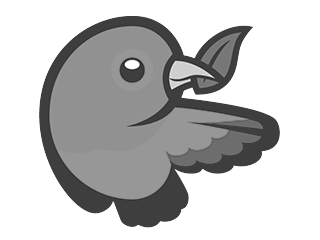
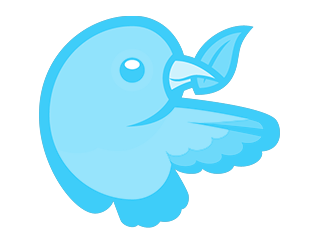
homepage changes

diff --git a/app/_layouts/default.html b/app/_layouts/default.html
@@ -12,6 +12,11 @@
     <div class="columns large-10 medium-10 small-10">
       <p>My name is <span>Clint Robinson</span>. I build websites. I am currently working as a front-end developer at <span>Lift Interactive</span> in <span>Edmonton, Alberta</span>. I am passionate about modern front-end technology and work flow.
       </p>
+      <ul>
+        <li><a href="https://twitter.com/clintrobinson"><i class="fa fa-twitter"></i> Twitter</a></li>
+        <li><a href="http://jekyllrb.com/"><i class="fa fa-linkedin"></i> LinkedIn</a></li>
+        <li><a href="mailto:me@clintrobinson.net"><i class="fa fa-envelope"></i> Email</a></li>
+      </ul>
     </div>
   </div>
 </section>
@@ -43,7 +48,7 @@
 
       <div class="cd-timeline-content">
         <h2>Lift Interactive</h2>
-        <p>Lorem ipsum dolor sit amet, consectetur adipisicing elit. Iusto, optio, dolorum provident rerum aut hic quasi placeat iure tempora laudantium ipsa ad debitis unde? Iste voluptatibus minus veritatis qui ut.</p>
+        <h3>Front-end Developer</h3>
         <a href="#0" class="cd-read-more">Read more</a>
         <span class="cd-date">March 2014 - Present</span>
       </div> <!-- cd-timeline-content -->
@@ -56,7 +61,7 @@
 
       <div class="cd-timeline-content">
         <h2>Vendasta Technologies</h2>
-        <p>Lorem ipsum dolor sit amet, consectetur adipisicing elit. Iusto, optio, dolorum provident rerum aut hic quasi placeat iure tempora laudantium ipsa ad debitis unde?</p>
+        <h3>Web Designer/Graphic Designer</h3>
         <a href="#0" class="cd-read-more">Read more</a>
         <span class="cd-date">September 2013 - March 2014</span>
       </div> <!-- cd-timeline-content -->
@@ -69,7 +74,7 @@
 
       <div class="cd-timeline-content">
         <h2>University of Saskatchewan</h2>
-        <p>Lorem ipsum dolor sit amet, consectetur adipisicing elit. Excepturi, obcaecati, quisquam id molestias eaque asperiores voluptatibus cupiditate error assumenda delectus odit similique earum voluptatem doloremque dolorem ipsam quae rerum quis. Odit, itaque, deserunt corporis vero ipsum nisi eius odio natus ullam provident pariatur temporibus quia eos repellat consequuntur perferendis enim amet quae quasi repudiandae sed quod veniam dolore possimus rem voluptatum eveniet eligendi quis fugiat aliquam sunt similique aut adipisci.</p>
+        <h3>Web Designer</h3>
         <a href="#0" class="cd-read-more">Read more</a>
         <span class="cd-date">February 2012 - September 2013</span>
       </div> <!-- cd-timeline-content -->
@@ -85,41 +90,42 @@
   <div class="row">
     <div class="columns large-12">
       <h1>Blog</h1>
+    </div>
+    <div class="columns large-7">
       {{ content }}
     </div>
-  </div>
-</section>
-
-<section class="built-with">
-  <div class="row">
-    <div class="columns medium-8 medium-centered large-8 large-centered">
-      <h3>This site was built With</h3>
-      <ul class="large-block-grid-4 medium-block-grid-2 small-block-grid-1">
-        <li><img src="/img/yeoman.png"></li>
-        <li><img src="/img/grunt.png"></li>
-        <li><img src="/img/bower.png"></li>
-        <li><img src="/img/jekyll.png"></li>
+    <div class="columns large-4">
+      <h2 class="">Recent Posts</h2>
+      <ul class="posts">
+        {% for post in site.posts limit:20 %}
+           <li>
+             <span>{{ post.date | date_to_string }}</span> &raquo;
+             <a href="{{ BASE_PATH }}{{ post.url }}">
+             {{ post.title }}</a>
+           </li>
+        {% endfor %}
       </ul>
     </div>
   </div>
 </section>
 
-
-
-<footer class="footer">
-  <div class="contact">
-    <p>
-      Clint Robinson<br />
-      <a href="mailto:me@clintrobinson.net">me@clintrobinson.net</a>
-    </p>
-  </div>
-  <div class="contact">
-    <p>
-      <a href="https://github.com/yourusername">github.com/yourusername</a><br />
-      <a href="https://twitter.com/clintrobinson">twitter.com/yourusername</a><br />
-    </p>
+<footer class="built-with">
+  <div class="row">
+    <div class="columns medium-8 medium-centered large-8 large-centered">
+      <h3>This site was built With</h3>
+      <ul class="large-block-grid-4 medium-block-grid-2 small-block-grid-1">
+        <li><a href="http://yeoman.io/"><img src="/img/yeoman.png"></a></li>
+        <li><a href="http://gruntjs.com/"><img src="/img/grunt.png"></a></li>
+        <li><a href="http://bower.io/"><img src="/img/bower.png"></a></li>
+        <li><a href="http://jekyllrb.com/"><img src="/img/jekyll.png"></a></li>
+      </ul>
+    </div>
   </div>
 </footer>
+
+
+
+
 
 
 {% include footer.html %}

diff --git a/app/_scss/modules/_timeline.scss b/app/_scss/modules/_timeline.scss
@@ -38,7 +38,7 @@ $color-5: #f0ca45; // yellow
     display: inline-block;
     font-weight: 800;
     line-height: 0.75;
-    margin: 0 0 2rem 0;
+    margin: 2rem 0 4rem;
     position: relative;
     text-transform: uppercase;
     &:after{
@@ -148,15 +148,15 @@ $color-5: #f0ca45; // yellow
   }
 
   &.lift-interactive {
-    background: #222;
+    //background: #222;
   }
 
   &.vendasta {
-    background: #43685a;
+    //background: #43685a;
   }
 
   &.usask {
-    background: #8fc73e;
+    //background: #8fc73e;
   }
   &.rawlco {
     background: $blue;
@@ -214,11 +214,19 @@ $color-5: #f0ca45; // yellow
   @include clearfix;
 
   h2 {
-    color: $blue;
     @extend %futura;
+    color: $blue;
+    line-height: 1.8rem;
+    margin-bottom: 0;
     text-transform: uppercase;
   }
-
+  h3{
+    @extend %futura;
+    color: #555;
+    font-size: rem-calc(18);
+    font-weight: 800;
+    text-transform: uppercase;
+  }
   p, .cd-read-more, .cd-date {
     color: $blue;
     @extend %futura;

diff --git a/app/_scss/modules/_built-with.scss b/app/_scss/modules/_built-with.scss
@@ -5,7 +5,7 @@ Banner
 ////////////////// */
 
 .built-with{
-  background: #ccc;
+  background: $blue;
   padding: 3em 0;
   .row{
     text-align: center;
@@ -13,24 +13,24 @@ Banner
   }
   h3{
     @extend %futura;
-    color: #444;
+    color: white;
     display: inline-block;
     font-weight: 800;
     line-height: 0.75;
-    margin: 0 0 2rem 0;
+    margin: 2rem 0 4rem;
     position: relative;
     text-transform: uppercase;
     &:after{
       content: "";
       position: absolute;
-      border-bottom: 2px solid #444;
+      border-bottom: 2px solid white;
       bottom: 0;
       width: 1500px;
     }
     &:before{
       content: "";
       position: absolute;
-      border-bottom: 2px solid #444;
+      border-bottom: 2px solid white;
       bottom: 0;
       right: 100%;
       width: 1500px;

diff --git a/app/_includes/header.html b/app/_includes/header.html
@@ -5,12 +5,13 @@
         <meta http-equiv="X-UA-Compatible" content="IE=edge,chrome=1">
         <title>{{ page.title }}</title>
         <meta name="viewport" content="width=device-width">
-        <script src="/js/vendor/modernizr.js" type="text/javascript"></script>
+
         <!-- build:css({app,.tmp}) /css/main.css -->
         <!-- Syntax highlighting CSS -->
 
         <!-- Custom CSS -->
         <link rel="stylesheet" href="/css/main.css">
+        <link href="http://maxcdn.bootstrapcdn.com/font-awesome/4.1.0/css/font-awesome.min.css" rel="stylesheet">
         <!-- endbuild -->
         <script type="text/javascript">
           (function(d) {

diff --git a/app/_scss/modules/_blog.scss b/app/_scss/modules/_blog.scss
@@ -16,7 +16,7 @@ Banner
     display: inline-block;
     font-weight: 800;
     line-height: 0.75;
-    margin: 0 0 2rem 0;
+    margin: 2rem 0 4rem;
     position: relative;
     text-transform: uppercase;
     &:after{
@@ -45,7 +45,19 @@ Banner
       color: #F8803E;
     }
   }
+
   .entry-content{
     text-align: left;
+    @extend %futura;
+    color: #555;
+    code{
+      font-family: monospace, monospace;
+    }
+    a{
+      color: #F8803E;
+    }
+    .highlight{
+      margin-bottom: 1rem;
+    }
   }
 }

diff --git a/app/_scss/modules/_banner.scss b/app/_scss/modules/_banner.scss
@@ -29,4 +29,27 @@ Banner
       line-height: 2.7rem;
     }
   }
+  ul{
+    margin: 0;
+    list-style-type: none;
+    @extend %futura;
+    text-transform: uppercase;
+    font-weight: 800;
+    li{
+      display: inline-block;
+      margin-right: 30px;
+
+      a{
+        @extend %default-transition;
+        font-size: rem-calc(18);
+        color: white;
+        i{
+          font-size: rem-calc(24);
+        }
+        &:hover{
+          color: $orange;
+        }
+      }
+    }
+  }
 }

diff --git a/app/_includes/footer.html b/app/_includes/footer.html
@@ -1,4 +1,5 @@
 <!-- build:js(app) /js/scripts.js -->
+    <script src="/js/vendor/modernizr.js" type="text/javascript"></script>
     <script src="/js/jquery.js"></script>
     <script src="/js/foundation.min.js"></script>
     <script src="/js/classie.js"></script>

diff --git a/app/_scss/modules/_work.scss b/app/_scss/modules/_work.scss
@@ -16,7 +16,7 @@ Work
     display: inline-block;
     font-weight: 800;
     line-height: 0.75;
-    margin: 0 0 2rem 0;
+    margin: 2rem 0 4rem;
     position: relative;
     text-transform: uppercase;
     &:after{

diff --git a/app/_scss/base/_color.scss b/app/_scss/base/_color.scss
@@ -7,6 +7,7 @@
 
 // Primary
 $blue: #00bdf7;
+$orange: #F8803E;
 
 // Secondary (tints/shades)
 
